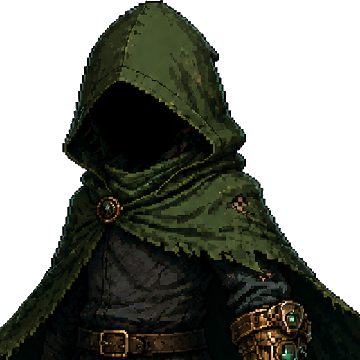
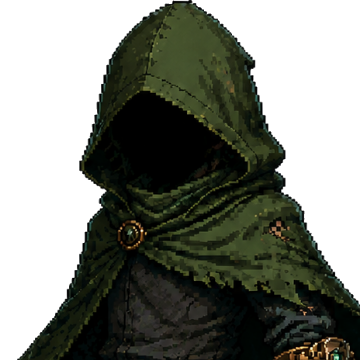
Adult Kael, and a portrait for each of the script's two Kaels
The owner supplied adult Kael, which resolves the question the previous
milestone raised the wrong way round. The two labels map exactly onto the
two speakers the opening already has, YOUNG KAEL and KAEL, so both now
have a face. I had reasoned the first figure could not be the younger
Kael because it carries the Axiom, and left the child speaker without a
portrait on that basis; it was the younger Kael, and the gauntlet on him
is the owner's design rather than an error.

Adult Kael is dark scaled and tattered layers, a steel half-mask, the
Axiom set with blue stones and the Shardblade lit. Both figures arrived
as RGB with the background painted in rather than as alpha, and both were
keyed, trimmed and cropped the same way.

The bust crop needed rethinking. The flare heuristic that found the
shoulder line on the pixel figure - the first row wider than two-thirds
of the frame - reads a gradual painted cloak as a shoulder and cut a
half-body. Both busts are now head-anchored: centred on the figure's own
axis measured from the top rows, where only the hood is in frame.

KAEL takes the adult bust, YOUNG KAEL the younger, every other speaker
still correctly shows none, and the character menu takes the adult.
Nearest-neighbour scaling came off both slots: right for the pixel
figure, wrong for the painted one, and the painted one is what the menu
shows.

The register conflict got sharper rather than softer. The two figures are
[…]

diff --git a/index.html b/index.html
@@ -51,7 +51,7 @@
       </div>
     </section>
     <canvas id="game-canvas" width="1280" height="720" tabindex="0" aria-label="VEILBOUND game canvas"></canvas>
-    <div id="hud" class="hud" hidden><div><div class="hud-brand">VEILBOUND <span class="hud-version">v0.4.3-kael</span></div><div id="hud-health" class="hud-health" aria-label="Health">◆ ◆ ◆ ◆ ◆ ◆</div><div id="hud-ability" class="hud-ability">AXIOM: DORMANT</div></div><div class="hud-right"><div id="hud-room">GREYHAVEN</div><div id="save-status" class="save-status">SAVE V1 READY</div></div></div>
+    <div id="hud" class="hud" hidden><div><div class="hud-brand">VEILBOUND <span class="hud-version">v0.4.4-kael</span></div><div id="hud-health" class="hud-health" aria-label="Health">◆ ◆ ◆ ◆ ◆ ◆</div><div id="hud-ability" class="hud-ability">AXIOM: DORMANT</div></div><div class="hud-right"><div id="hud-room">GREYHAVEN</div><div id="save-status" class="save-status">SAVE V1 READY</div></div></div>
     <div id="interact-prompt" class="interact-prompt" hidden aria-live="polite"><span id="interact-prompt-verb" class="interact-prompt-verb">TALK</span><span id="interact-prompt-name" class="interact-prompt-name"></span></div>
     <pre id="debug-overlay" class="debug-overlay" hidden aria-hidden="true"></pre>
     <div id="dialogue" class="dialogue" hidden aria-live="polite"><img id="dialogue-portrait" class="dialogue-portrait" alt="" hidden decoding="async" /><div class="dialogue-body"><div id="dialogue-speaker" class="dialogue-speaker"></div><div id="dialogue-text" class="dialogue-text"></div><div class="dialogue-hint">TAP / A / SPACE</div></div></div>

diff --git a/src/data/portraits.js b/src/data/portraits.js
@@ -9,8 +9,16 @@
   //
   // `expressions` is the blueprint's frame-swapper: a line may name one with
   // `{ speaker, text, mood }`, and an unknown mood falls back to `neutral`.
+  //
+  // KAEL and YOUNG KAEL are two speakers in the opening script and two supplied figures. The
+  // younger wears the green hood and a green-lit Axiom; the adult is dark, masked, and
+  // carries the lit Shardblade. Note they are drawn in different registers — the younger in
+  // pixel art, the adult painted — which `docs/OPENING.md` records as unresolved.
   window.Veilbound.Portraits = Object.freeze({
     KAEL: Object.freeze({
+      expressions: Object.freeze({ neutral: 'assets/characters/kael_adult_bust.png' }),
+    }),
+    'YOUNG KAEL': Object.freeze({
       expressions: Object.freeze({ neutral: 'assets/characters/kael_bust.png' }),
     }),
   });

diff --git a/styles.css b/styles.css
@@ -126,7 +126,6 @@ button { font: inherit; }
   background: linear-gradient(180deg, rgba(12, 26, 29, 0.9), rgba(5, 10, 12, 0.9));
   object-fit: cover;
   object-position: top center;
-  image-rendering: pixelated;
 }
 
 .dialogue-portrait[hidden] { display: none; }
@@ -402,11 +401,10 @@ button { font: inherit; }
   border: 1px solid rgba(127, 231, 225, 0.2);
   border-radius: 3px;
   background-color: rgba(127, 231, 225, 0.035);
-  background-image: url('./assets/characters/kael_bust.png');
+  background-image: url('./assets/characters/kael_adult_bust.png');
   background-repeat: no-repeat;
   background-size: cover;
   background-position: top center;
-  image-rendering: pixelated;
 }
 
 .menu-portrait-glow {

diff --git a/src/main.js b/src/main.js
@@ -1,7 +1,7 @@
 (() => {
   'use strict';
 
-  const VERSION = '0.4.3-kael';
+  const VERSION = '0.4.4-kael';
   const canvas = document.getElementById('game-canvas');
   const boot = document.getElementById('boot-screen');
   const status = document.getElementById('boot-status');

diff --git a/docs/PROGRESS.md b/docs/PROGRESS.md
@@ -6,6 +6,53 @@ Use this file together with `ROADMAP.md`, `docs/VERTICAL_SLICE.md`, `docs/CANON.
 
 ---
 
+## 2026-08-30 — v0.4.4 Both Kaels
+
+The owner supplied adult Kael, which resolves the question the previous entry raised the wrong
+way round. The two labels — "Young Kael", then "Adult Kael" — map exactly onto the two speakers
+the opening script already has, `YOUNG KAEL` and `KAEL`, so both now have a face.
+
+I had reasoned that the first figure could not be the younger Kael because it carries the
+Axiom, and left the child speaker without a portrait on that basis. It was the younger Kael;
+the gauntlet on him is the owner's design, not an error.
+
+### The figures
+
+Adult Kael is dark scaled and tattered layers, a steel half-mask, the Axiom set with blue
+stones, and the Shardblade lit and crackling. The younger is the green hood with green stones.
+Both arrived as RGB with the background painted in rather than as alpha, and both were keyed,
+trimmed and cropped the same way.
+
+The bust crop needed rethinking. The flare heuristic that found the shoulder line on the pixel
+figure — the first row wider than two-thirds of the frame — reads a gradual painted cloak as a
+shoulder and cut a half-body. Both busts are now anchored on the head: centred on the figure's
+own axis measured from the top rows, where only the hood is in frame.
+
+### Wired
+
+`KAEL` takes the adult bust, `YOUNG KAEL` the younger, and every other speaker still correctly
+shows none. The character menu takes the adult. Nearest-neighbour scaling came off both slots:
+it is right for the pixel figure and wrong for the painted one, and the painted one is what the
+menu shows.
+
+### The register conflict got sharper, not softer
+
+The two figures are drawn in different registers — the younger in pixel art, the adult
+painted — and they now appear in the same dialogue box within one scene of each other. The
+adult agrees with `ROADMAP.md` 2.14; the younger does not. Recorded in `docs/OPENING.md` and
+`assets/ATTRIBUTION.md` rather than resolved unilaterally.
+
+Also noted in `docs/CANON.md`: the Axiom's stones read green on the younger figure and blue on
+the adult. If that is deliberate it is a good visible marker of the gauntlet waking, which is
+what `AGENTS.md` asks for under progression being visible on the hero. If it is an artefact of
+how the two were made, it should be reconciled.
+
+### Verification
+- The `portrait` suite now covers both: adult Kael's lines take the adult bust in the Hunter
+  Hall, young Kael's take the younger in the memory, and Elara and Mira still show none.
+- Every suite passes.
+
+
 ## 2026-08-30 — v0.4.3 Kael has a face, or the absence of one
 
 The owner supplied two images of Kael and the blueprint's portrait system finally had

diff --git a/ROADMAP.md b/ROADMAP.md
@@ -2,9 +2,9 @@
 
 **Document owner:** ORACLE — Game Director & Planning  
 **Repository:** `OuterHeavenX/VEILBOUND`  
-**Integration branch:** `main` — carries the full slice as of `v0.4.3-kael`  
+**Integration branch:** `main` — carries the full slice as of `v0.4.4-kael`  
 **Current development branch:** `claude/todo-implementation-td5zeq`  
-**Current playable version:** `v0.4.3-kael`  
+**Current playable version:** `v0.4.4-kael`  
 **Roadmap status:** ACTIVE  
 **Last roadmap update:** 2026-08-30
 
@@ -65,7 +65,7 @@ that is already cited; add new rules at the end.
 
 ---
 
-## 3. Current playable state — v0.4.3-kael
+## 3. Current playable state — v0.4.4-kael
 
 ### Foundation / presentation
 - [x] zero-build Canvas 2D runtime
@@ -166,9 +166,9 @@ hardware.
 | `v0.3.4-greyhaven` | painted Greyhaven town plate | `docs/PROGRESS.md` § v0.3.4 |
 | `v0.3.6-march` | painted Hollow March fields, collision authored to them | `docs/PROGRESS.md` § v0.3.5-6 |
 | `v0.4.2-prologue` | the six-scene opening, the cutscene sequencer, hold-to-skip | `docs/OPENING.md` |
-| `v0.4.3-kael` | Kael's character art, dialogue portraits | `docs/OPENING.md` |
+| `v0.4.4-kael` | Kael's character art, both ages, dialogue portraits | `docs/OPENING.md` |
 
-One device pass on `v0.4.3-kael` covers all eight, since each release carries the ones
+One device pass on `v0.4.4-kael` covers all eight, since each release carries the ones
 before it. That pass is the single largest open item in this roadmap.
 
 ---
@@ -387,7 +387,7 @@ Still held until justified:
 
 # 10. Immediate production order
 
-1. Test `v0.4.3-kael` on iPhone using the checklist in `docs/SUNKEN_ARCHIVE.md`, plus:
+1. Test `v0.4.4-kael` on iPhone using the checklist in `docs/SUNKEN_ARCHIVE.md`, plus:
    the world sits centred with even letterboxing; the stick appears under the thumb
    anywhere on the left; each region sounds distinct and music sits under the cues; the
    rotate gate appears upright and hands the game back on turning.

diff --git a/docs/OPENING.md b/docs/OPENING.md
@@ -164,21 +164,20 @@ the bell as a summons are all new and all load-bearing.
 
 ## Art direction — an open conflict
 
-`ROADMAP.md` 2.14 settles VEILBOUND's register as **painted**. Kael's character art, supplied
-in v0.4.3 and now on screen in the dialogue box and the character menu, is **pixel art**.
+`ROADMAP.md` 2.14 settles VEILBOUND's register as **painted**, and the two supplied Kaels are
+in different registers: the younger is **pixel art**, the adult is **painted**. They sit side
+by side in the same dialogue box.
 
-Both cannot be right. Either the rule moves, or this art is reference for a painted version of
-the same design. It is wired in as-is because it is enormously better than the placeholder it
-replaced, and the conflict is recorded rather than quietly resolved.
+The adult agrees with the rule. The younger does not, and reads as a different game whenever
+the two appear near each other. Either the younger figure gets a painted version, or 2.14
+moves. It is wired in as-is because it is the only art the child speaker has, and the mismatch
+is recorded rather than quietly resolved.
 
 ## Still to build
 
 - The four Scene 4 interactive points, once someone writes what they say.
-- Portraits for everyone but Kael. The system is built and Kael has one; Elara, Mira,
-  Caldris, Serac and the creature do not, and correctly show none.
-- A portrait for **YOUNG KAEL**, who is a different speaker from KAEL. The supplied art is
-  adult Kael — it carries the Axiom and the Shardblade, neither of which he has in Scene 1 —
-  so it is deliberately not mapped to the child.
+- Portraits for everyone but the two Kaels. Both `KAEL` and `YOUNG KAEL` have one; Elara,
+  Mira, Caldris, Serac, the creature and the vision do not, and correctly show none.
 - Elara's melody, and the bell ringing it.
 - Painted plates for The Forest Path and the Hunter Hall.
 - Art for the Vein-Corrupted, which currently borrows the March Husk's sheet.

diff --git a/docs/CANON.md b/docs/CANON.md
@@ -22,10 +22,22 @@ Visual anchors:
 - damaged Shardblade
 - ancient mechanical gauntlet fused around one forearm
 
-Reference art for all four exists as of v0.4.3: `assets/characters/kael_portrait.png` (the
-figure, hood and Axiom) and `assets/characters/kael_keyart.jpg` (mask and Shardblade). The
-bust crop is the dialogue and character-menu portrait. The gameplay sprite sheet is still the
-placeholder prerender and does not match it.
+Kael exists in two authored figures, and they are two speakers in the script rather than two
+drafts of one:
+
+- **Young Kael** — green hood and cloak, the Axiom set with green stones, a lighter build.
+  `assets/characters/kael_portrait.png`, with `kael_keyart.jpg` showing the mask and blade.
+- **Adult Kael** — dark scaled and tattered layers, a steel half-mask, the Axiom set with blue
+  stones, and the Shardblade lit. `assets/characters/kael_adult_figure.png`, with
+  `kael_adult_turned.png` as a second view.
+
+The Axiom's stones read green on the younger figure and blue on the adult. Whether that is a
+deliberate progression or an artefact of how the two were made is undecided; if deliberate it
+is a good visible marker of the gauntlet waking, which is the kind of thing `AGENTS.md` asks
+for under progression being visible on the hero.
+
+Head-and-shoulders crops of both are the dialogue portraits. The gameplay sprite sheet is
+still the placeholder prerender and matches neither.
 
 Kael is not initially a chosen hero in his own understanding. He is a scavenger and explorer accustomed to entering dead ruins for salvage.
 

diff --git a/assets/ATTRIBUTION.md b/assets/ATTRIBUTION.md
@@ -97,8 +97,13 @@ both Hollow March fields now painted, this is most of what the player looks at.
 
 **Unresolved:** origin and licence not recorded, as with the title key art and the map plates.
 
-**Also unresolved:** this art is pixel art, and `ROADMAP.md` 2.14 settles VEILBOUND's register
-as painted. See `docs/OPENING.md` § Art direction. Either the rule or this art needs to give.
+- Adult Kael arrived in v0.4.4 as two further images, also RGB with the background painted in:
+  `kael_adult_figure.png` (front, blade drawn), `kael_adult_turned.png` (a second view) and
+  `kael_adult_bust.png` (the portrait crop).
+
+**Also unresolved:** the two figures are in different registers — the younger is pixel art,
+the adult is painted, and `ROADMAP.md` 2.14 settles the register as painted. See
+`docs/OPENING.md` § Art direction.
 
 ## Generated, not third-party
 

diff --git a/docs/VERTICAL_SLICE.md b/docs/VERTICAL_SLICE.md
@@ -3,7 +3,7 @@
 ## Current Implementation Status
 
 **Current playable branch:** `claude/todo-implementation-td5zeq`, merged to `main`  
-**Current playable version:** `v0.4.3-kael`  
+**Current playable version:** `v0.4.4-kael`  
 **Last updated:** 2026-08-30
 
 The slice has moved from foundation work into the first playable dungeon. The existing title/menu, XP/JP/coin progression, Greyhaven, Hollow March, Axiom awakening, Resonance, combat, saves, sprites, and terrain remain the base for this branch.
@@ -58,7 +58,7 @@ The slice has moved from foundation work into the first playable dungeon. The ex
 
 ### Still required for the complete slice
 
-- [ ] owner-device acceptance of `v0.4.3-kael`
+- [ ] owner-device acceptance of `v0.4.4-kael`
 - [ ] Tether acquisition
 - [ ] Tether traversal teaching
 - [ ] Tether object manipulation

diff --git a/README.md b/README.md
@@ -14,7 +14,7 @@ from static hosting or straight off the filesystem, and that is a non-negotiable
 
 Landscape only: the world is authored at 960x540, so a phone held upright is asked to turn.
 
-## Current state — `v0.4.3-kael`
+## Current state — `v0.4.4-kael`
 
 Playable end to end from the title through Greyhaven, the Hollow March and the first six
 rooms of the Sunken Archive:

diff --git a/docs/ARCHITECTURE.md b/docs/ARCHITECTURE.md
@@ -1,7 +1,7 @@
 # VEILBOUND — Technical Architecture Foundation
 
 Owner: **FORGE**  
-Current runtime: **v0.4.3-kael**
+Current runtime: **v0.4.4-kael**
 
 ## Core principles
 
